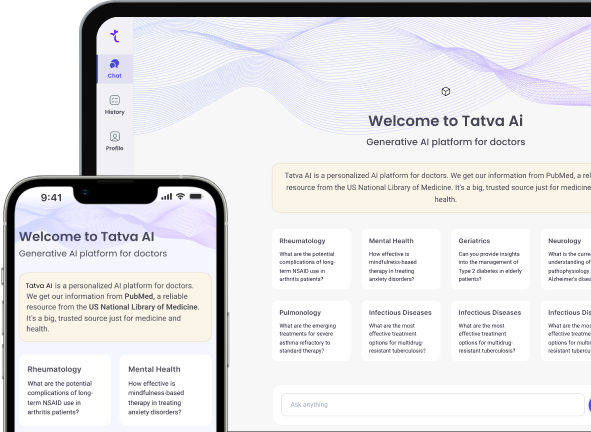
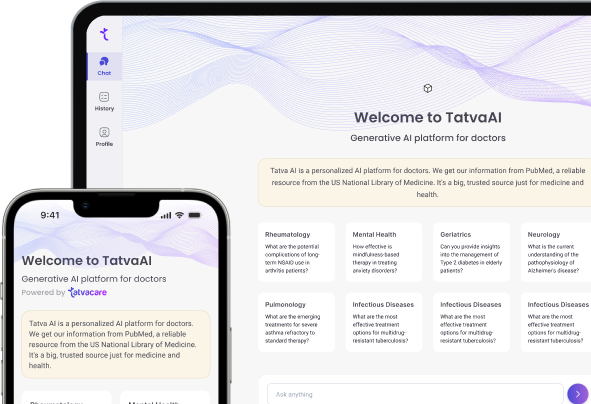
Update - Images chnages on log in page.

diff --git a/src/pages/onBoarding/components/Onboarding.js b/src/pages/onBoarding/components/Onboarding.js
@@ -11,7 +11,7 @@ import FAQ from "./FAQ/FAQ.js";
 import OurScale from "./OurScale/OurScale.js";
 import Footer from "./Footer/Footer.js";
 import Hook from "../../../assets/images/website-images/Hook.png";
-import Hook1 from "../../../assets/images/website-images/Hook1.png";
+import Hook2 from "../../../assets/images/website-images/Hook2.png";
 import Logo from "../../../assets/images/website-images/logo.png";
 import "./Onboarding.scss";
 import "./FeatureTabCard/FeatureTabCard.scss";
@@ -71,7 +71,7 @@ const Onboarding = () => {
 
   useEffect(() => {
     const handleResize = () => {
-      setFooterImage(window.innerWidth <= 768 ? Hook1 : Hook);
+      setFooterImage(window.innerWidth <= 768 ? Hook2 : Hook);
     };
 
     // Set initial image

diff --git a/src/pages/onBoarding/components/OnboardCarousel.js b/src/pages/onBoarding/components/OnboardCarousel.js
@@ -5,7 +5,7 @@ import smartSync from "../../../assets/images/website-images/SmartSyncBanner.jpg
 import practiceManagement from "../../../assets/images/website-images/PracticeManagementBanner.jpg";
 import ddxBanner from "../../../assets/images/website-images/DdxBanner.jpg";
 import emrBanner from "../../../assets/images/website-images/EMRBanner.jpg";
-import tatvaAiBanner from "../../../assets/images/website-images/TatvaAiBanner.jpg";
+import tatvaAiBanner from "../../../assets/images/website-images/TatvaAiBanner.png";
 import fastBackward from "../../../assets/images/onboard-page-icons/fast-backward.gif";
 import { getUtmParams } from "../../../components/userOnboarding/services/userDataService";
 import { detectOperatingSystem } from "../../../utils/utils";